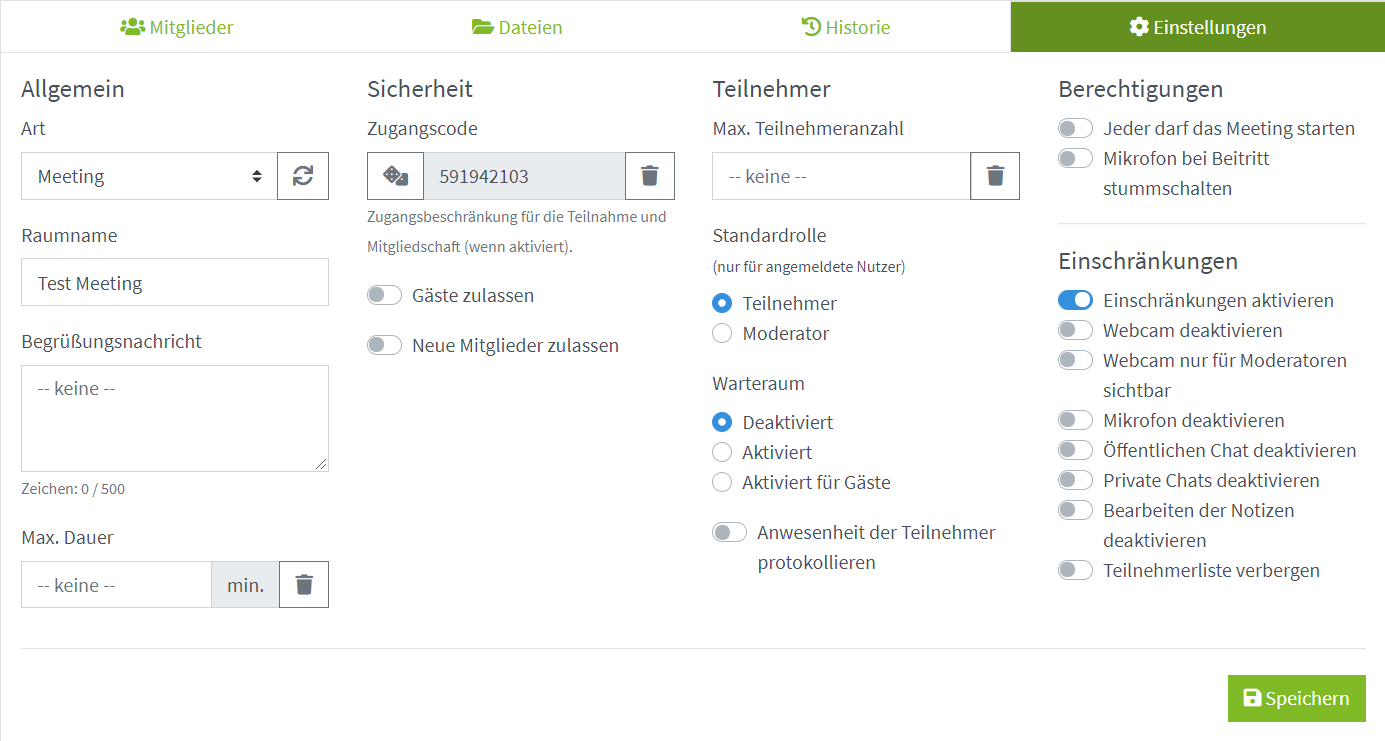
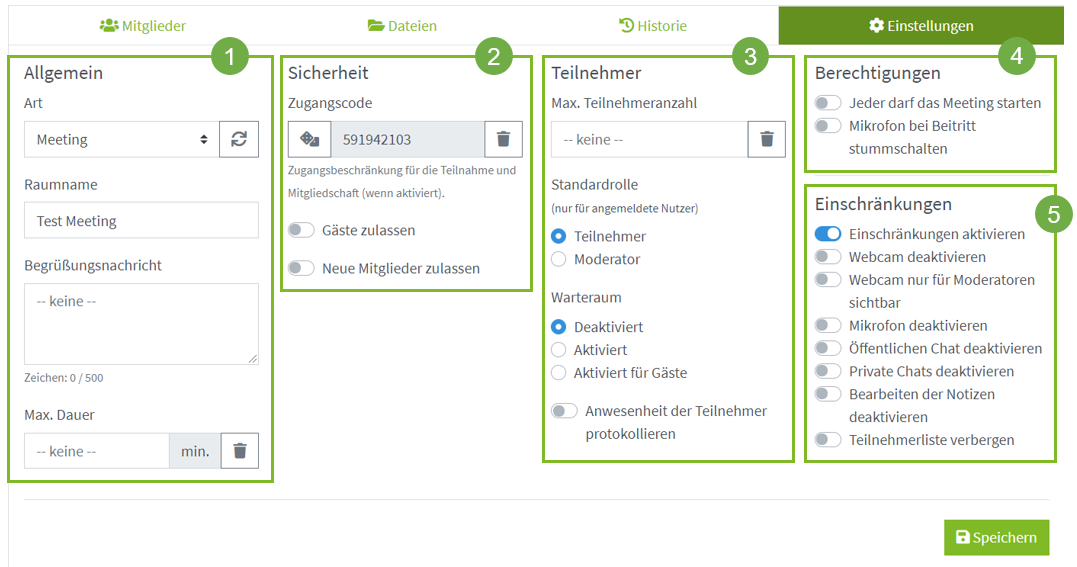
Images edited/added, some description added
Bestehende Bilder mit Kästen/Nummerierungen versehen.
Trennlinien eingefügt.
Punkt unter Sicherheit angepasst. Beschreibung Standardrolle erweitert.
Beschreibung Anwesenheit Protokollierung hinzugefügt sowie 2 Bilder zur Protokollierung hinzugefügt

diff --git a/room/settings.md b/room/settings.md
@@ -27,6 +27,7 @@ Die Einstellungen sind in 5 Abschnitte aufgeteilt:
 
 ![Einstellungen klicken]({{ site.baseurl }}/assets/img/screenshots/room/settings/settings.png)
 
+<hr>
 ## Allgemein
 
 ![Einstellungen Allgemein]({{ site.baseurl }}/assets/img/screenshots/room/settings/allgemein.png#center)
@@ -40,24 +41,34 @@ Die Einstellungen sind in 5 Abschnitte aufgeteilt:
 <br>
 {% include notification.html message="**Wichtig!** Wenn Sie Einstellungen geändert haben, speichern Sie diese mit einem Klick auf den grünen Speichern-Button unten rechts" %}
 
+<hr>
 ## Sicherheit
 
 ![Einstellungen Sicherheit]({{ site.baseurl }}/assets/img/screenshots/room/settings/sicherheit.png#center)
 
 - **Zugangscode (1)** Mit einem Klick auf das Würfelsymbol können Sie einen neuen zufällig generierten Zugangscode erstellen. Wenn Sie den Raum ohne Zugangscode zur Verfügung stellen möchten, klicken Sie auf das Mülleimer Symbol. Es erscheint der Schriftzug "-- ungeschützt --"
 - **Gäste zulassen (2)** Standardmäßig ist die Option "Gäste zulassen" deaktiviert. So können nur angemeldete Nutzer den Raum betreten. Möchten Sie den Raum auch für nicht-angemeldete Nutzer verfügbar machen, so aktivieren Sie diese Option.
-- **Neue Mitglieder zulassen (3)** Aktivieren Sie diese Option, um Mitglieder zuzulassen, die sich erst vor kurzem für Pilos registriert haben. **(Nicht sicher ob das stimmt, nachfragen!)**
+- **Neue Mitglieder zulassen (3)** Wenn Sie diese Option aktivieren, können Personen sich selbst für den Raum als Mitglied anmelden. Um Mitglied des Raumes zu werden, ist der Zugangscode notwendig (Vorausgesetzt Sie haben Ihren Raum mit einem Zugangscode versehen). Wenn diese Option nicht aktiviert ist, müssen Sie Mitglieder manuell zu dem Raum hinzufügen.
 
 {% include notification.html message="**Wichtig!** Wenn Sie Einstellungen geändert haben, speichern Sie diese mit einem Klick auf den grünen Speichern-Button unten rechts" %}
 
+<hr>
 ## Teilnehmer
 
 ![Einstellungen Teilnehmer]({{ site.baseurl }}/assets/img/screenshots/room/settings/teilnehmer.png#center)
 
 - **Max. Teilnehmerzahl (1)** Legen Sie die maximale Teilnehmerzahl des Raumes fest. Standardmäßig haben Räume keine Teilnehmerbegrenzung. 
-- **Standardrolle (2)** Hier können Sie die Rolle einstellen, die ein Mitglied beim betreten des Raumes erhalten soll. Dies funktioniert nur für angemeldete Nutzer, nicht für Gäste. Als Standardrolle ist "Teilnehmer" ausgewählt. Wählen Sie "Moderator" aus, um jedem neuen Teilnehmer die Moderatorenrolle zuzuweisen. Mehr zu den Berechtigungen der unterschiedlichen Rollen finden Sie unter [Mitgliedschaftsrollen](../room/features/membership#mitgliedschaftsrollen)
+- **Standardrolle (2)** Hier können Sie die Rolle einstellen, die ein Mitglied beim betreten des Raumes erhalten soll. Dies funktioniert nur für angemeldete Nutzer, nicht für Gäste. Als Standardrolle ist "Teilnehmer" ausgewählt. Wählen Sie "Moderator" aus, um jedem neuen Mitglied des Raumes die Moderatorenrolle zuzuweisen. Sie können die Rollen für jedes Mitglied bei Bedarf auch nachträglich anpassen (siehe [Mitglieder verwalten](../room/features/membership#mitglieder-verwalten)). Mehr zu den Berechtigungen der unterschiedlichen Rollen finden Sie unter [Mitgliedschaftsrollen](../room/features/membership#mitgliedschaftsrollen)
 - **Warteraum (3)** Hier können Sie die Warteraumfunktion aktivieren. Diese ist Standardmäßig deaktiviert. Wenn Sie die Funktion für Mitglieder (also registrierte Nutzer) aktivieren möchten, klicken Sie auf "Aktiviert". Wenn auch Gäste den Warteraum nutzen sollen, klicken Sie auf "Aktiviert für Gäste". 
-- **Anwesenheit der Teilnehmer protokollieren (4)** 
+- **Anwesenheit der Teilnehmer protokollieren (4)** Wenn Sie diese Option aktivieren, wird die Anwesenheit jedes Teilnehmers bei jeder aktiven Session aufgezeichnet. Teilnehmer können eine aktive Session jedoch nur betreten, wenn sie der Protokollierung der Anwesenheit zugestimmt haben. Die Zustimmung erfolgt über setzen eines Hakens in der Raumansicht (a). Um die aufgezeichneten Anwesenheiten einzusehen, klicken Sie in der Raumansicht auf "Historie" (b). Dort wird jede durchgeführte Session aufgelistet, mit Beginn- und Endzeit. Unter Aktionen finden Sie zwei blaue Buttons (c). Durch Klicken auf den rechten Button öffnet sich ein Popup-Fenster welches die Anwesenheiten der einzelnen Teilnehmer auflistet und die Zeit anzeigt, die diese an der Session teilgenommen haben.
+
+![Einstellungen Historie]({{ site.baseurl }}/assets/img/screenshots/room/settings/historie.png)
+
+![Einstellungen Anwesenheit]({{ site.baseurl }}/assets/img/screenshots/room/settings/anwesenheit.png)
+
+<hr>
+## Berechtigungen
+
 
 
 
